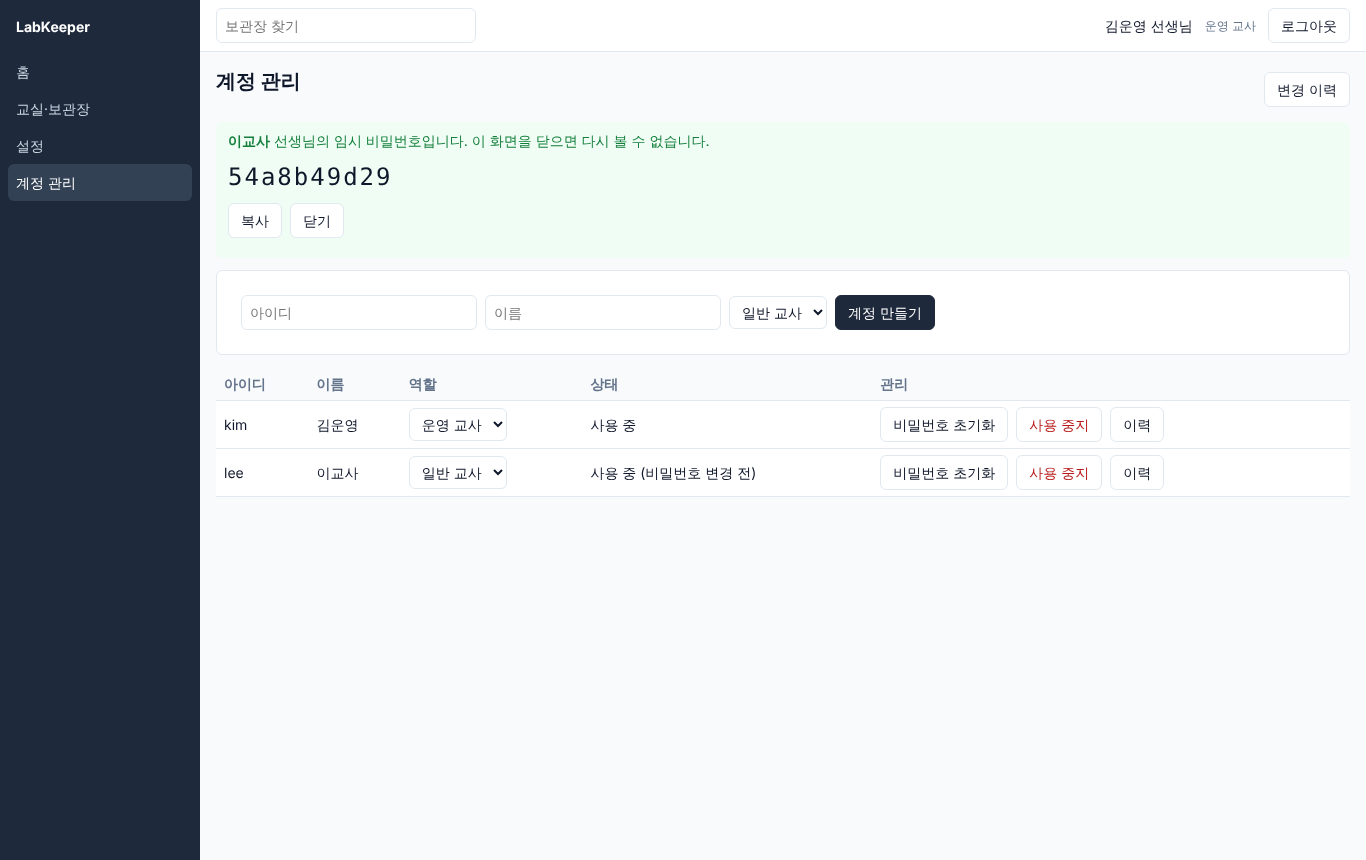
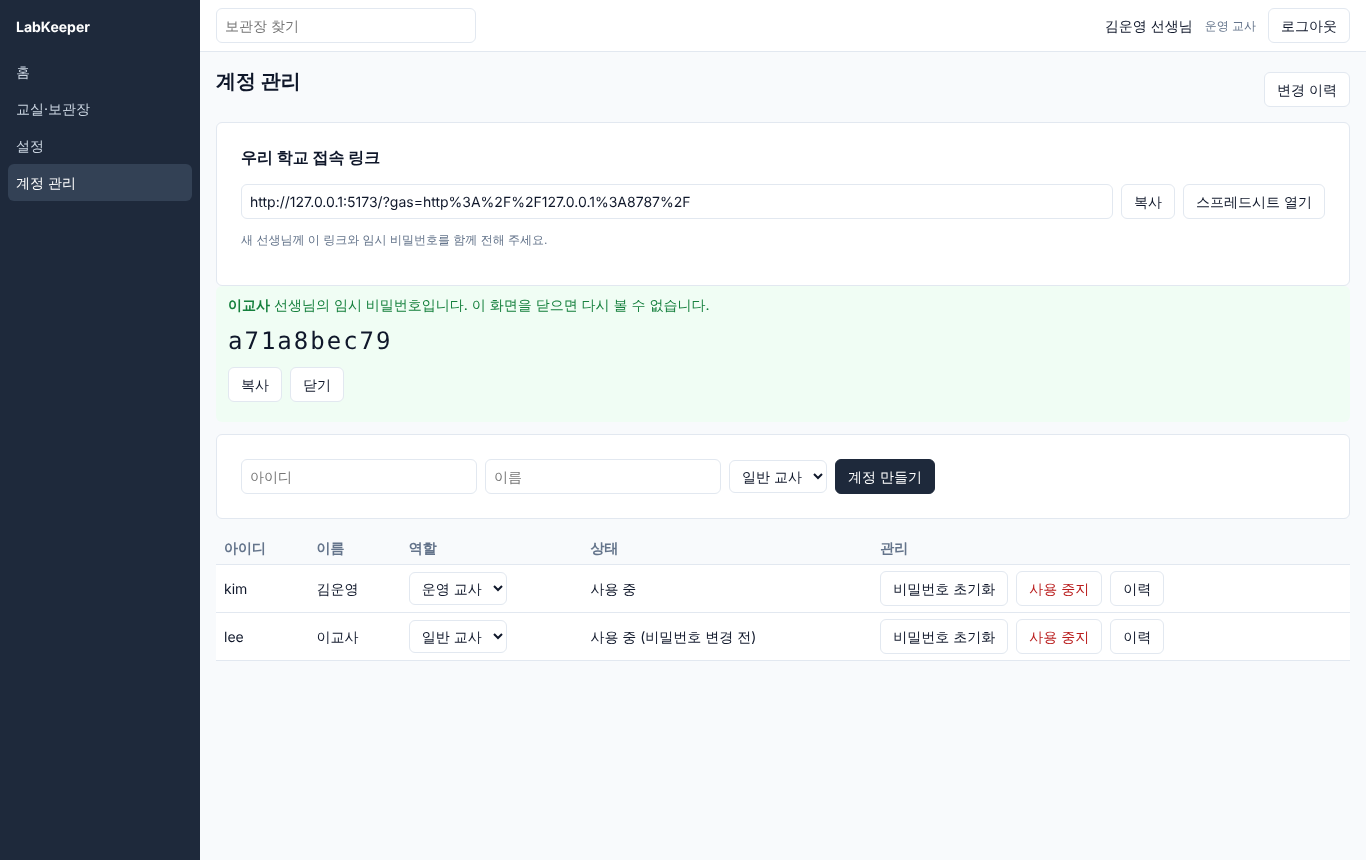
Update e2e and guides for the shared multi-school setup
Claude-Session: https://claude.ai/code/session_016FFULtyswaHyFrnr52iryS

diff --git a/web/e2e/m1.spec.ts b/web/e2e/m1.spec.ts
@@ -1,21 +1,33 @@
 import { expect, test, type Page } from '@playwright/test'
 
 const SHOTS = '../docs/screenshots/m1'
+const GAS = 'http://127.0.0.1:8787/'
 
 async function answerNextDialog(page: Page, value?: string) {
   page.once('dialog', (d) => (value === undefined ? d.accept() : d.accept(value)))
 }
 
-test('M1: accounts, rooms, cabinets and history end to end', async ({ page }) => {
-  // First run: create the admin account
+test('M1: accounts, rooms, cabinets and history end to end', async ({ page, request }) => {
+  // First run: connect this browser to the school's spreadsheet (the local GAS dev server)
   await page.goto('/')
-  await expect(page.getByRole('heading', { name: '운영 교사 계정 만들기' })).toBeVisible()
-  await page.screenshot({ path: `${SHOTS}/01-setup.png` })
+  await expect(page.getByRole('heading', { name: '스프레드시트 연결' })).toBeVisible()
+  await page.getByLabel('GAS 웹 앱 주소').fill(GAS)
+  await page.getByRole('button', { name: '연결 테스트' }).click()
+  await expect(page.getByText('연결됨: 학교 이름 미설정')).toBeVisible()
+  await page.screenshot({ path: `${SHOTS}/01-connect.png` })
+  await page.getByRole('button', { name: '저장하고 계속' }).click()
+
+  // No account yet: the first admin is made from the sheet menu
+  await expect(page.getByRole('heading', { name: '운영 교사 계정을 먼저 만들어 주세요' })).toBeVisible()
+  await page.screenshot({ path: `${SHOTS}/01b-needs-admin.png` })
+  const made = await request.post(`${GAS}__dev/createAdmin`, { data: { loginId: 'kim', name: '김운영', password: 'first-pass-1' } })
+  expect(await made.json()).toEqual({ ok: true })
+  await page.getByRole('button', { name: '다시 확인' }).click()
+
+  await expect(page.getByRole('heading', { name: '로그인' })).toBeVisible()
   await page.getByLabel('아이디', { exact: true }).fill('kim')
-  await page.getByLabel('이름').fill('김운영')
   await page.getByLabel('비밀번호', { exact: true }).fill('first-pass-1')
-  await page.getByLabel('비밀번호 확인').fill('first-pass-1')
-  await page.getByRole('button', { name: '계정 만들기' }).click()
+  await page.getByRole('button', { name: '로그인' }).click()
   await expect(page.getByRole('heading', { name: '안녕하세요, 김운영 선생님' })).toBeVisible()
 
   // Admin creates a teacher account and reads the temporary password
@@ -27,6 +39,7 @@ test('M1: accounts, rooms, cabinets and history end to end', async ({ page }) =>
   await expect(notice).toContainText('이교사')
   const tempPassword = (await notice.locator('code').textContent())!.trim()
   expect(tempPassword).toMatch(/^[a-z0-9]{10}$/)
+  await expect(page.getByRole('textbox', { name: '접속 링크' })).toHaveValue(/\/\?gas=http%3A%2F%2F127\.0\.0\.1%3A8787%2F$/)
   await page.screenshot({ path: `${SHOTS}/02-users.png` })
   await page.getByRole('button', { name: '로그아웃' }).click()
 

diff --git a/web/playwright.config.ts b/web/playwright.config.ts
@@ -17,7 +17,6 @@ export default defineConfig({
     {
       command: 'npx vite --host 127.0.0.1 --port 5173 --strictPort',
       url: 'http://127.0.0.1:5173',
-      env: { VITE_GAS_URL: 'http://127.0.0.1:8787/' },
       reuseExistingServer: false,
     },
   ],

diff --git a/docs/setup-guide.md b/docs/setup-guide.md
@@ -1,73 +1,101 @@
-# LabKeeper 설치 안내 (GAS + Vercel)
+# LabKeeper 설치 안내
 
 LabKeeper는 두 부분으로 나뉩니다.
 
-- **서버(데이터 저장)**: 구글 스프레드시트에 붙은 Apps Script(GAS) 웹 앱. 선생님 구글 계정으로 한 번 배포합니다.
-- **화면**: Vercel에 올린 웹 페이지. 위 GAS 주소로 데이터를 주고받습니다.
+- **공용 화면**: 모든 학교가 함께 쓰는 웹 주소(Vercel). 데이터를 저장하지 않습니다.
+- **학교 스프레드시트**: 학교마다 하나. 구글 스프레드시트에 붙은 Apps Script(GAS)가 그 학교의 데이터를 저장하고 화면과 주고받습니다. 데이터는 이 시트에만 있습니다.
 
-처음 한 번만 하면 되고, 30분 정도 걸립니다.
+처음 한 번만 하면 되고, 20분 정도 걸립니다.
 
-## 1. 스프레드시트와 Apps Script 만들기
+> 학교 Google Workspace(교육청 계정)는 웹 앱을 "모든 사용자"에게 열 수 없게 막혀 있는 경우가 있습니다. 그러면 공용 화면에서 연결되지 않으니, **개인 Gmail 계정**으로 아래 과정을 진행하세요.
 
-1. 구글 드라이브에서 **새로 만들기 → Google 스프레드시트**를 누르고, 이름을 **LabKeeper DB**로 바꿉니다.
-   - 이 파일이 모든 기록이 저장되는 곳입니다. 다른 사람과 공유하지 마세요. 앱 사용자는 이 파일에 접근할 필요가 없습니다.
-2. 스프레드시트 메뉴에서 **확장 프로그램 → Apps Script**를 엽니다.
-3. 왼쪽 **파일** 목록의 `Code.gs` 내용을 모두 지웁니다.
-4. 저장소의 `gas/src` 폴더에 있는 파일마다 같은 이름의 스크립트 파일을 만들고 내용을 붙여 넣습니다.
-   - 파일 옆 **+ → 스크립트**로 새 파일을 만들고, 이름은 확장자 없이 적습니다(예: `Auth`). 화면에는 `Auth.gs`로 보입니다.
-   - 만들 파일: `Auth`, `Code`, `Db`, `Records`, `Schema`, `Settings`, `Users`
-   - 파일 순서는 상관없습니다.
-5. 디스크 모양 **저장** 버튼을 누릅니다.
-6. (권장) 왼쪽 톱니바퀴 **프로젝트 설정**에서 **시간대**를 `(GMT+09:00) 서울`로 바꿉니다.
+## 1. 원본 시트 복사하기
+
+1. 이 링크를 엽니다: **<원본 사본 링크>** (관리자가 만든 "LabKeeper 원본"의 `…/copy` 링크)
+2. **사본 만들기**를 누릅니다. 내 드라이브에 코드가 들어 있는 빈 시트가 생깁니다. 이름은 자유롭게 바꿔도 됩니다(예: `LabKeeper - ○○중학교`).
+   - 이 시트에 모든 기록이 저장됩니다. 다른 사람과 공유하지 마세요. 선생님들은 시트가 아니라 웹 화면으로 씁니다.
+3. 시트를 처음 열면 상단에 **LabKeeper** 메뉴가 생깁니다(몇 초 걸릴 수 있습니다).
 
 ## 2. 웹 앱으로 배포하기
 
-1. 오른쪽 위 **배포 → 새 배포**를 누릅니다.
-2. **유형 선택**(톱니바퀴)에서 **웹 앱**을 고릅니다.
-3. 다음처럼 설정합니다.
-   - 설명: `LabKeeper`
+1. 시트 메뉴 **확장 프로그램 → Apps Script**를 엽니다.
+2. (권장) 왼쪽 톱니바퀴 **프로젝트 설정**에서 **시간대**를 `(GMT+09:00) 서울`로 바꿉니다.
+3. 오른쪽 위 **배포 → 새 배포**를 누르고, **유형 선택**(톱니바퀴)에서 **웹 앱**을 고릅니다.
+4. 다음처럼 설정하고 **배포**를 누릅니다.
    - **다음 사용자 인증 정보로 실행: 나**
    - **액세스 권한이 있는 사용자: 모든 사용자**
-     - 앱이 자체 로그인(교사별 아이디·비밀번호)으로 사용자를 확인하므로, 구글 로그인 없이 접속할 수 있게 열어 둡니다. 스프레드시트 자체는 여전히 선생님만 볼 수 있습니다.
-4. **배포**를 누릅니다.
+     - LabKeeper가 교사별 아이디·비밀번호로 사용자를 확인하므로, 구글 로그인 없이 접속할 수 있게 열어 둡니다. 시트 자체는 여전히 선생님만 볼 수 있습니다.
 5. 권한 승인 창이 뜨면 **액세스 승인 → 본인 계정 선택**을 누릅니다.
-   - "Google에서 확인하지 않은 앱" 화면이 나오면 **고급 → LabKeeper(으)로 이동(안전하지 않음)**을 누른 뒤 **허용**합니다. 선생님이 직접 만든 스크립트라서 나오는 안내입니다.
+   - "Google에서 확인하지 않은 앱" 화면이 나오면 **고급 → (프로젝트 이름)(으)로 이동(안전하지 않음) → 허용**을 누릅니다. 선생님 시트에 든 스크립트라서 나오는 안내입니다.
 6. **웹 앱 URL**(`https://script.google.com/macros/s/.../exec`)을 복사해 둡니다.
-7. 브라우저 새 탭에 이 주소를 붙여 넣었을 때 `{"ok":true,"data":{"name":"LabKeeper"}}`가 보이면 성공입니다.
 
-### 코드를 고친 뒤 다시 배포할 때
+## 3. 운영 교사 계정 만들기 (시트에서)
 
-**배포 → 배포 관리 → (연필) 수정 → 버전: 새 버전 → 배포**를 누릅니다. 이렇게 하면 웹 앱 URL이 바뀌지 않습니다. "새 배포"를 다시 누르면 URL이 새로 생기므로 주의하세요.
+1. 시트로 돌아와 **LabKeeper → 운영 교사 계정 만들기**를 누릅니다. (처음이면 권한 승인을 한 번 더 묻습니다.)
+2. 아이디(영문 소문자·숫자·`. _ -`, 3~30자), 이름, 비밀번호(8자 이상)를 정합니다.
 
-## 3. 화면을 Vercel에 올리기
+첫 계정은 이렇게 시트에서만 만들 수 있습니다. 웹 주소를 아는 사람이 먼저 관리자 계정을 가로챌 수 없게 하기 위해서입니다.
 
-1. [vercel.com](https://vercel.com)에 GitHub 계정으로 로그인합니다.
-2. **Add New → Project**에서 `labkeeper_project` 저장소를 고릅니다.
-3. 다음처럼 설정합니다.
-   - **Root Directory**: `web`
-   - Framework Preset: Vite (자동으로 잡힙니다)
-   - **Environment Variables**: 이름 `VITE_GAS_URL`, 값은 2단계에서 복사한 웹 앱 URL
-4. **Deploy**를 누르고, 끝나면 나오는 주소(예: `https://labkeeper-xxx.vercel.app`)를 엽니다.
+## 4. 공용 화면에서 연결하고 로그인하기
 
-GAS 주소를 바꿨다면 Vercel의 **Settings → Environment Variables**에서 `VITE_GAS_URL`을 고친 뒤 **Deployments → Redeploy**를 누릅니다.
+1. 공용 화면 주소를 엽니다: **https://labkeeper-trdooleel.vercel.app/**
+2. **스프레드시트 연결** 화면에 2단계에서 복사한 웹 앱 URL을 붙여 넣고 **연결 테스트**를 누릅니다.
+   - 실패하면: 주소가 `…/exec`로 끝나는지, 액세스 권한이 "모든 사용자"인지 확인하세요. 방금 배포했다면 10초쯤 뒤 다시 누르세요.
+3. **저장하고 계속**을 누르고, 3단계의 아이디·비밀번호로 로그인합니다.
+4. **설정**에서 학교 이름, 학교급, 장부 양식 지역(기본 충북), 서명자 이름을 입력합니다. 학교 이름은 로그인 화면에 "연결된 학교"로 보입니다.
 
-## 4. 처음 접속
+연결 정보는 그 브라우저에만 저장됩니다. 다른 PC에서는 아래 접속 링크로 엽니다.
 
-1. Vercel 주소로 들어가면 **운영 교사 계정 만들기** 화면이 나옵니다. 아이디·이름·비밀번호(8자 이상)를 정합니다.
-2. **설정**에서 학교 이름, 학교급, 장부 양식 지역(기본 충북), 서명자 이름을 입력합니다.
-3. **계정 관리**에서 다른 선생님 계정을 만듭니다. 화면에 한 번만 보이는 임시 비밀번호를 전해 주세요. 처음 로그인하면 본인 비밀번호로 바꾸게 됩니다.
-4. **교실·보관장**에서 교실과 보관장을 등록합니다. 같은 모양의 보관장은 **복제**로 빠르게 만들 수 있습니다.
+## 5. 다른 선생님 초대하기
 
-## 자주 묻는 것
+1. **계정 관리**에서 선생님 계정을 만듭니다. 화면에 한 번만 보이는 **임시 비밀번호**가 나옵니다.
+2. 같은 화면의 **우리 학교 접속 링크**에서 **복사**를 누릅니다.
+3. 선생님께 **접속 링크와 임시 비밀번호**를 함께 전합니다. 선생님은 링크를 열고 로그인한 뒤 본인 비밀번호로 바꿉니다.
 
-- **로그인이 몇 초 걸려요.** 비밀번호를 안전하게 확인하느라 계산을 여러 번 합니다. 5초 넘게 걸리면 알려 주세요.
-- **비밀번호를 잊었어요.** 운영 교사가 **계정 관리 → 비밀번호 초기화**로 임시 비밀번호를 새로 줍니다.
-- **스프레드시트를 직접 고쳐도 되나요?** 열 순서를 바꾸거나 메모 열을 추가하는 것은 괜찮습니다. 하지만 **1행의 머리글 이름(`id`, `active`, `deleted` 등)은 절대 바꾸지 마세요.** 앱은 머리글 이름으로 열을 찾기 때문에, 이름을 바꾸면 모든 계정이 사용 중지된 것처럼 보이거나 지운 기록이 다시 나타납니다. 값도 앱에서 고치는 것을 권합니다.
-- **기록을 지웠어요.** 삭제는 표시만 남기고 실제로 지우지 않습니다. 변경 이력에서 누가 언제 지웠는지 확인할 수 있습니다.
+- 접속 링크는 운영 교사에게 직접 받은 것만 쓰세요. 링크가 지금 연결된 학교와 다른 곳을 가리키면 화면이 "연결을 바꿀까요?"라고 먼저 묻습니다.
+- **스프레드시트 열기** 버튼으로 학교 시트를 바로 열 수 있습니다(운영 교사만).
 
-## 개발자용: 로컬에서 실행
+## 6. 시트 메뉴 (LabKeeper)
 
-```bash
-cd gas && npm install && npm run dev      # 가짜 구글 서비스로 GAS 코드를 띄움 (http://127.0.0.1:8787, 데이터는 메모리)
-cd web && npm install && cp .env.example .env.local && npm run dev
-```
+| 메뉴 | 하는 일 |
+|---|---|
+| 운영 교사 계정 만들기 | 계정이 하나도 없을 때 첫 운영 교사를 만듭니다 |
+| 운영 교사 비밀번호 초기화 | 운영 교사가 비밀번호를 잊었을 때 임시 비밀번호를 만듭니다(그 계정의 기존 로그인은 모두 끊김) |
+| 시트 구조 점검 | 표와 1행 머리글 이름이 맞는지 확인합니다(고치지는 않음) |
+| 사본을 새 학교 시트로 시작 | **운영 중인 시트를 복사한 사본**의 계정·기록을 모두 지우고 새 학교 시트로 만듭니다. 되돌릴 수 없습니다 |
+| 사용 가이드 | 이 안내를 짧게 보여 줍니다 |
+
+> ⚠ 각 시트 **1행의 머리글 이름은 바꾸지 마세요.** LabKeeper는 머리글 이름으로 열을 찾습니다. 열 순서를 바꾸거나 오른쪽에 내 열을 더하는 것은 괜찮습니다.
+
+> 운영 중인 시트를 "사본 만들기"로 복사하면 그 사본에는 원래 학교의 계정과 기록이 들어 있어서, 화면이 "운영 중인 시트의 사본입니다"라며 막습니다. 새 학교를 시작할 때는 항상 **1단계의 원본 링크**로 복사하세요.
+
+## 7. 코드 업데이트 (화면이 "옛 버전"이라고 할 때)
+
+공용 화면이 새 기능을 쓰기 시작하면, 학교 시트의 코드도 새 버전이어야 합니다. 화면에 "학교 시트의 프로그램이 옛 버전입니다"가 나오면:
+
+1. 저장소의 [`gas/dist/LabKeeper.gs`](https://github.com/mrdoolee/labkeeper_project/blob/main/gas/dist/LabKeeper.gs)를 열고 오른쪽 위 **복사** 버튼으로 전체를 복사합니다.
+2. 시트의 **확장 프로그램 → Apps Script**에서
+   - 파일이 `LabKeeper` 하나라면: 내용을 모두 지우고 붙여 넣습니다.
+   - 예전 방식으로 여러 파일(`Auth`, `Code`, `Db` …)이 있다면: 모두 삭제하고(파일 옆 ⋮ → 삭제) **+ → 스크립트**로 `LabKeeper` 파일 하나를 만들어 붙여 넣습니다.
+3. **저장** 후 **배포 → 배포 관리 → (연필) 수정 → 버전: 새 버전 → 배포**를 누릅니다.
+   - "새 배포"를 누르면 URL이 바뀌어 모든 선생님이 다시 연결해야 하니, 꼭 **배포 관리 → 새 버전**으로 하세요.
+4. 화면에서 **다시 확인**을 누릅니다.
+
+데이터(시트 내용)는 코드 업데이트로 바뀌지 않습니다.
+
+## 관리자용: 원본 시트와 공용 화면 만들기
+
+LabKeeper를 배포하는 사람(저장소 관리자)만 한 번 합니다.
+
+**원본 시트**
+1. 새 스프레드시트를 만들고 이름을 `LabKeeper 원본`으로 합니다.
+2. **확장 프로그램 → Apps Script**에서 기본 `Code.gs`를 지우고 `LabKeeper` 스크립트 파일을 만들어 `gas/dist/LabKeeper.gs` 내용을 붙여 넣고 저장합니다.
+3. 원본 시트에서는 계정을 만들거나 웹 앱으로 쓰지 마세요(빈 상태로 둡니다).
+4. **공유 → 일반 액세스: 링크가 있는 모든 사용자(뷰어)** 로 바꿉니다.
+5. 주소의 `/edit…` 부분을 `/copy`로 바꾼 링크(`https://docs.google.com/spreadsheets/d/<ID>/copy`)를 1단계의 **<원본 사본 링크>** 자리에 적습니다.
+6. 코드를 업데이트할 때마다 원본의 스크립트도 새 `LabKeeper.gs`로 바꿔 둡니다.
+
+**공용 화면 (Vercel)**
+1. Vercel에서 이 저장소로 프로젝트를 만들고 **Root Directory**를 `web`으로 둡니다(Framework: Vite). 환경 변수는 필요 없습니다.
+2. `main`에 올리면 자동으로 배포됩니다. 주소(현재 `https://labkeeper-trdooleel.vercel.app/`)는 학교에 나눠 준 접속 링크에 들어 있으니 바꾸지 마세요.
+3. Settings → Deployment Protection의 **Vercel Authentication**은 프로덕션 주소에 걸리지 않게 둡니다(선생님들이 Vercel 로그인 없이 열어야 함).

diff --git a/CLAUDE.md b/CLAUDE.md
@@ -8,7 +8,12 @@
 - 서버: Google Apps Script (GAS)
 - DB: Google Spreadsheet
 - 최종 목표는 웹앱 배포
-- 배포 구조: React 화면은 Vercel 등에 따로 호스팅하고, GAS는 웹앱(doGet/doPost)으로 배포해 데이터 API 역할만 한다.
+- 배포 구조 (arbot과 같은 여러 학교 공용 구조): React 화면은 Vercel에 **하나만** 배포해 모든 학교가 함께 쓰고, 각 학교는 코드가 든 원본 시트를 "사본 만들기"로 복사해 자기 시트에서 GAS 웹앱(doGet/doPost)을 배포한다. 데이터는 각 학교 시트에만 있다.
+  - 웹앱은 처음 열면 "스프레드시트 연결"(GAS 주소 입력 → 연결 테스트 → 저장)부터 한다. 주소는 브라우저(localStorage)에 저장하고, 빌드 환경 변수(`VITE_GAS_URL`)는 쓰지 않는다.
+  - 운영 교사가 "우리 학교 접속 링크"(`/?gas=<GAS 주소>`)를 복사해 다른 선생님께 전한다. 저장된 학교와 다른 링크면 바꾸기 전에 묻는다.
+  - 첫 운영 교사 계정은 시트 메뉴 LabKeeper에서만 만든다(웹에서 만들 수 없음). 시트 메뉴: 첫 계정, 운영 교사 비밀번호 초기화, 시트 구조 점검, 사본을 새 학교 시트로 시작, 사용 가이드.
+  - GAS의 `API_VERSION`과 웹의 `REQUIRED_API_VERSION`을 함께 올린다. 학교 GAS가 낮으면 화면이 재배포를 안내한다. 운영 중인 시트의 사본은 감지해서 막는다.
+- 화면 디자인: 시안 B(어두운 아이콘 메뉴 + 파란 강조색, 메뉴 접기). 지금 CSS(styles.css 토큰) 방식을 유지하고 아이콘만 lucide-react를 쓴다. Tailwind·shadcn은 쓰지 않는다.
   - 로그인은 교사별 아이디·비밀번호 방식이다 (구글 OAuth는 쓰지 않는다).
     - 운영 교사가 계정을 만들고, 비밀번호를 잊으면 운영 교사가 초기화한다.
     - 비밀번호는 평문으로 저장하지 않는다 (사용자별 salt + 해시로 스프레드시트에 저장).
@@ -41,7 +46,9 @@
 - GAS 테스트: `cd gas && npm test` (gas/src를 node:vm과 가짜 구글 서비스로 실행. gas/test/fakes.js는 시트의 입력 해석을 흉내 낸다)
 - 로컬 GAS 서버: `cd gas && npm run dev` (http://127.0.0.1:8787, 메모리 저장)
 - 화면 테스트: `cd web && npm test`, 타입 검사 `npx tsc -b`, 빌드 `npm run build`
-- 통합 시험: `cd web && npm run e2e` (두 서버를 자동 실행, 설치된 Chromium 사용, 스크린샷은 docs/screenshots/m1/)
+- 학교용 GAS 한 파일: `cd gas && npm run bundle` → `gas/dist/LabKeeper.gs` (gas/src를 바꾸면 다시 만든다. GAS 테스트가 최신인지 확인한다)
+- 통합 시험: `cd web && npm run e2e` (두 서버를 자동 실행, 연결 화면에 로컬 GAS 주소를 넣고 `/__dev/createAdmin`으로 첫 계정을 만든다. 설치된 Chromium 사용, 스크린샷은 docs/screenshots/m1/)
+- 로컬 개발: 개발 빌드에서만 연결 화면이 `http://127.0.0.1:8787/` 같은 로컬 주소를 받는다.
 - GAS 코드는 모듈 없는 전역 함수(V8). 파일 로드 순서가 보장되지 않으므로 최상위에서는 정의만 하고, 액션은 Code.js의 registerActions()에서 모은다.
 - 보관 분류·보관장 종류 id는 gas/src/Schema.js와 web/src/domain/storage.ts 두 곳에 있다. 바꿀 때 함께 바꾼다(GAS 테스트가 목록을 확인한다).
 

diff --git a/README.md b/README.md
@@ -64,7 +64,9 @@
 - [x] 1차 개발 범위 확정: 시약 관리 + 충북 서식 1·3·4·5 ([docs/phase1-scope.md](docs/phase1-scope.md))
 - [x] 1차 설계 문서 (docs/superpowers/specs/2026-10-23-labkeeper-phase1-design.md)
 - [x] M1 기본 틀: 로그인·계정 관리, 설정, 교실·보관장·구역, 변경 이력, 삭제 항목 복구 (docs/superpowers/plans/2026-10-23-m1-foundation.md)
-- [ ] M1 실제 배포 확인 (GAS 배포 + Vercel 연결, [docs/setup-guide.md](docs/setup-guide.md))
+- [x] 여러 학교 공용 구조: 스프레드시트 연결 화면, 시트 메뉴로 첫 계정, 접속 링크, 버전·사본 확인 (docs/superpowers/specs/2026-10-23-multi-school-connect-and-redesign-design.md)
+- [x] 화면 디자인 B: 아이콘 메뉴(접기), 파란 강조색, 교실 카드
+- [ ] 실제 배포 확인: 원본 시트 만들기, 학교 시트 코드 업데이트, 공용 화면 연결 ([docs/setup-guide.md](docs/setup-guide.md))
 - [ ] M2 시약과 대장
 - [ ] M3 폐수와 점검
 - [ ] M4 MSDS와 경고표지
